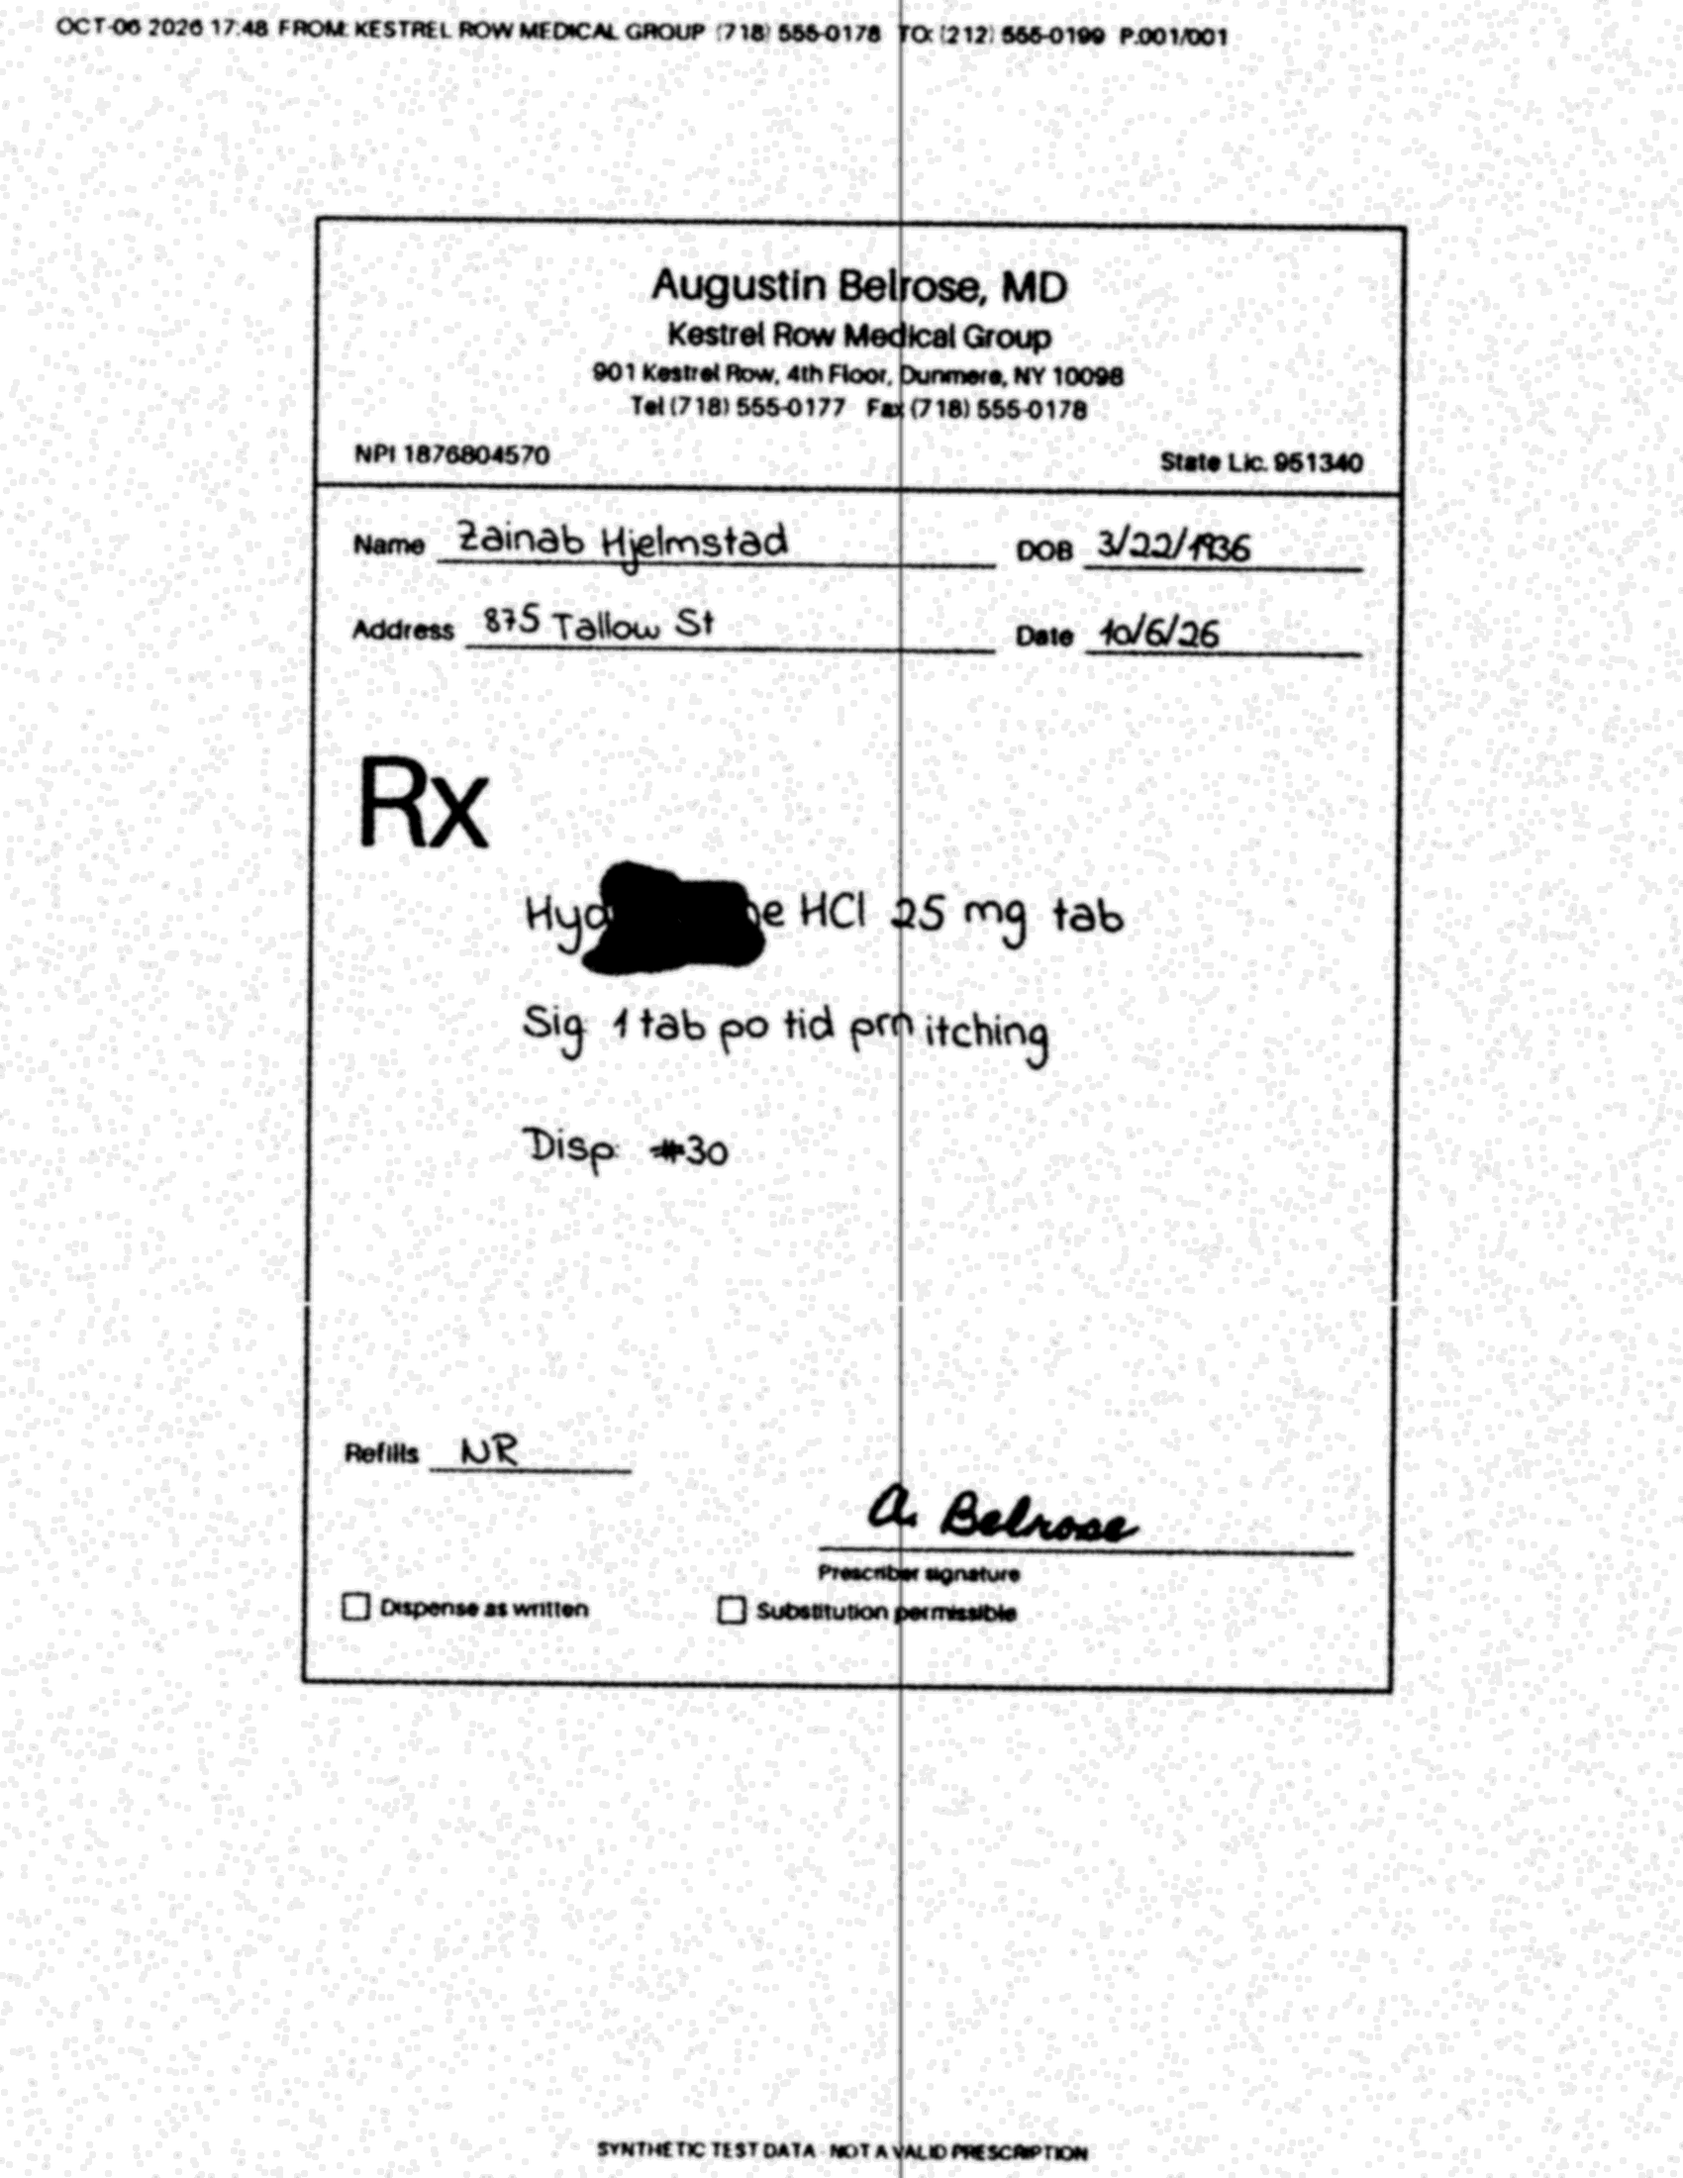
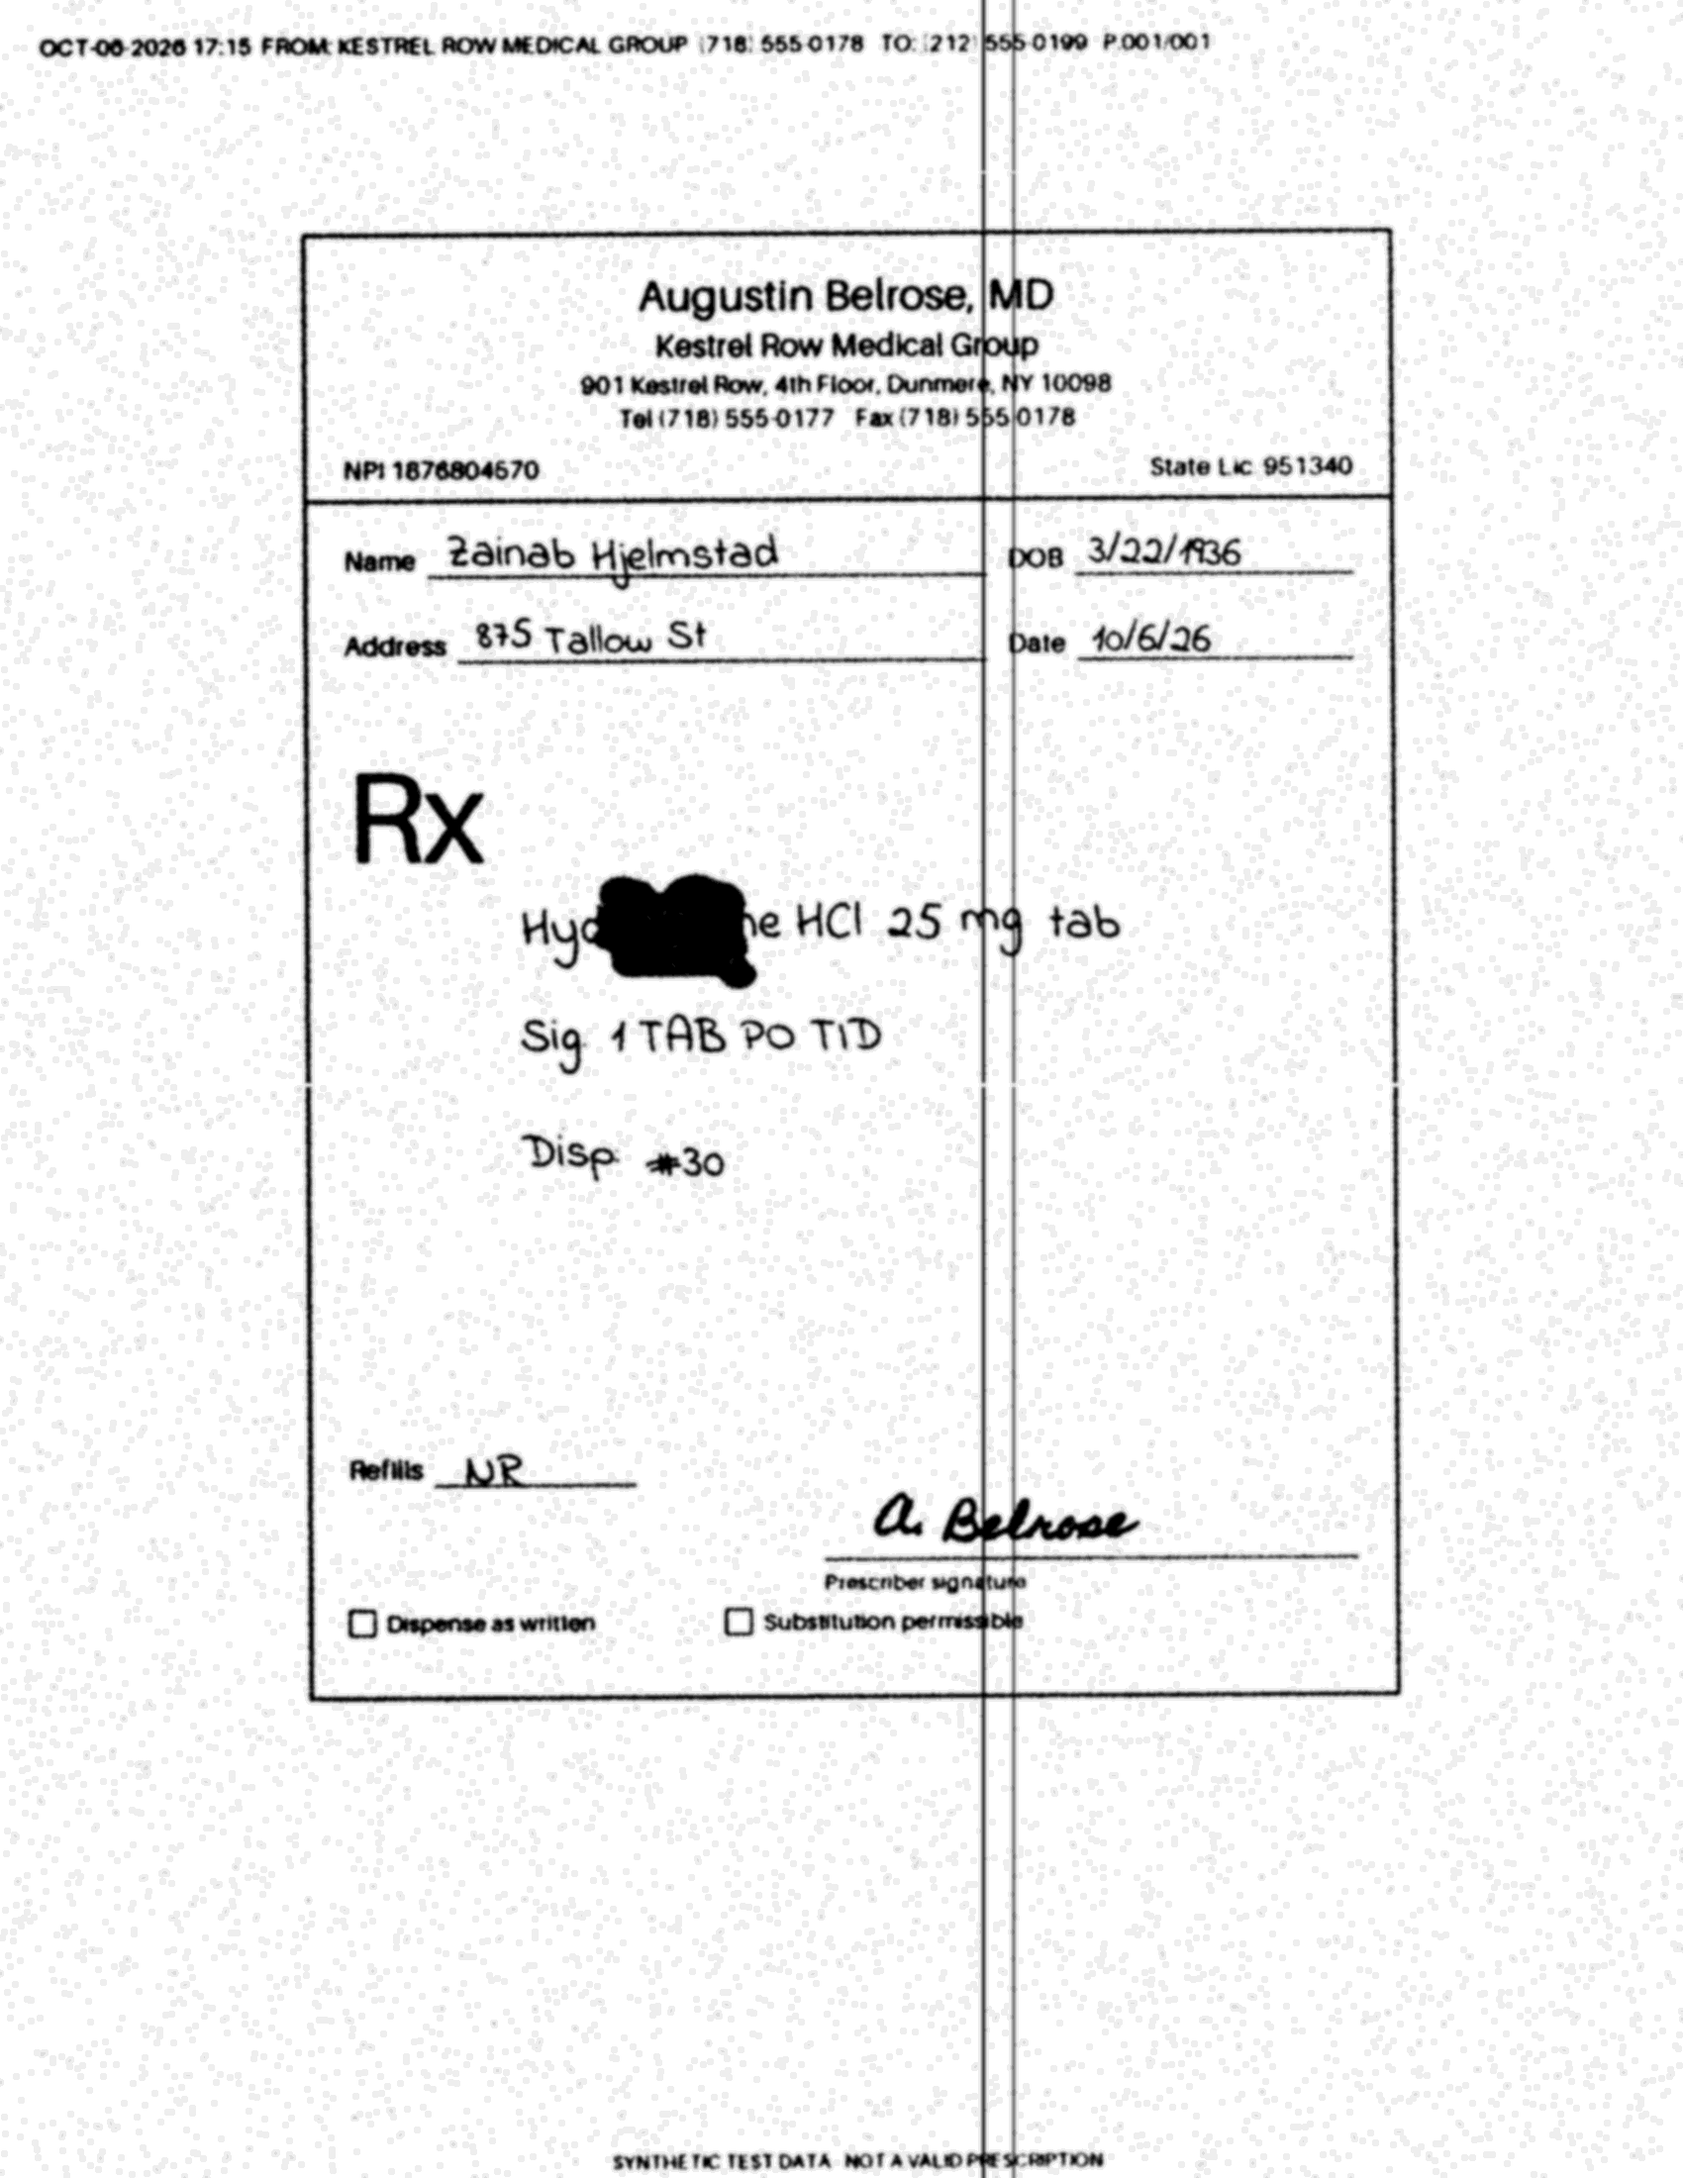
Clean demo D for isolated drug ambiguity
Demo D's sig changes from "1 tab po tid prn itching" to "1 TAB PO TID"
so it no longer raises UNSUPPORTED_SIG. Only demo D is regenerated (A, B,
C, E, F are byte-identical); the 40-fax benchmark is untouched.

Changed region(s): [[0.0312, 0.0, 0.8418, 1.0]]

diff --git a/synthetic_rx_faxes/demo.py b/synthetic_rx_faxes/demo.py
@@ -27,8 +27,8 @@ CASES = {
               expected="REVIEW_REQUIRED: POSSIBLE_QUANTITY_CONFLICT (directions imply 300 mL, source says 50 mL)"),
     "D": dict(title="Hydroxyzine / hydralazine ambiguity", tier="moderate",
               drug="Hydroxyzine HCl", strength="25 mg", fabbr="tab", form="tablet",
-              sig="1 tab po tid prn itching", qty=30, refills=0, damage="drug_middle",
-              expected="REVIEW_REQUIRED: cross-pass disagreement + LASA pair + ambiguous reference"),
+              sig="1 TAB PO TID", qty=30, refills=0, damage="drug_middle",
+              expected="REVIEW_REQUIRED: AMBIGUOUS_DRUG only (hydroxyzine vs hydralazine; everything else clean)"),
     "E": dict(title="Prescriber NPI with one corrupted digit", tier="clean",
               drug="Lisinopril", strength="10 mg", fabbr="tab", form="tablet",
               sig="1 tab po qd", qty=90, refills=3, damage="npi_digit",
